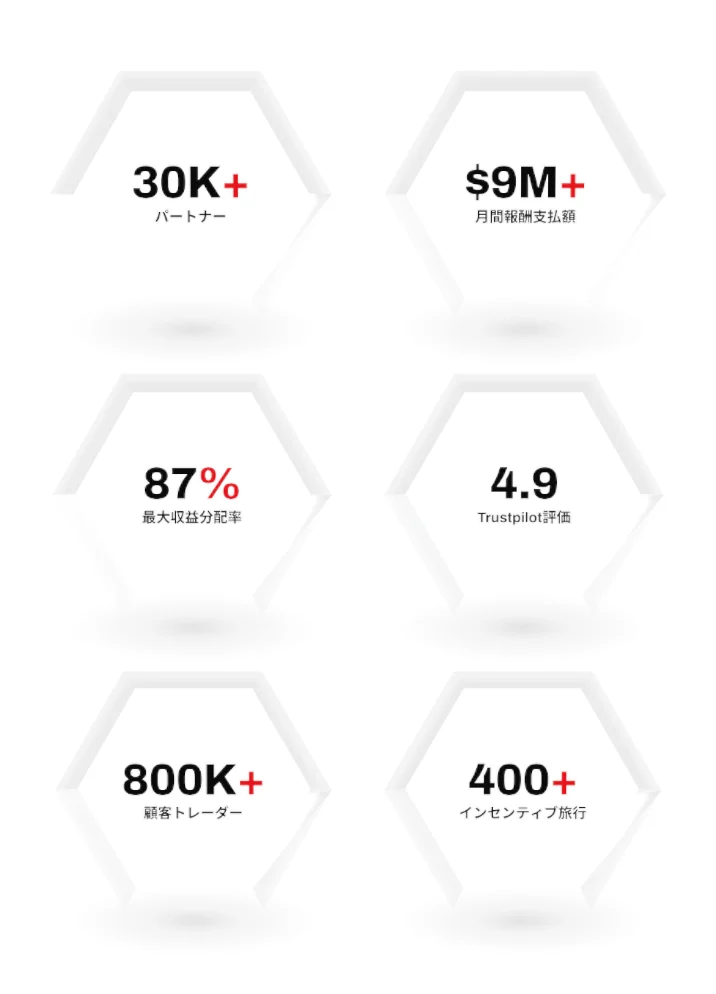
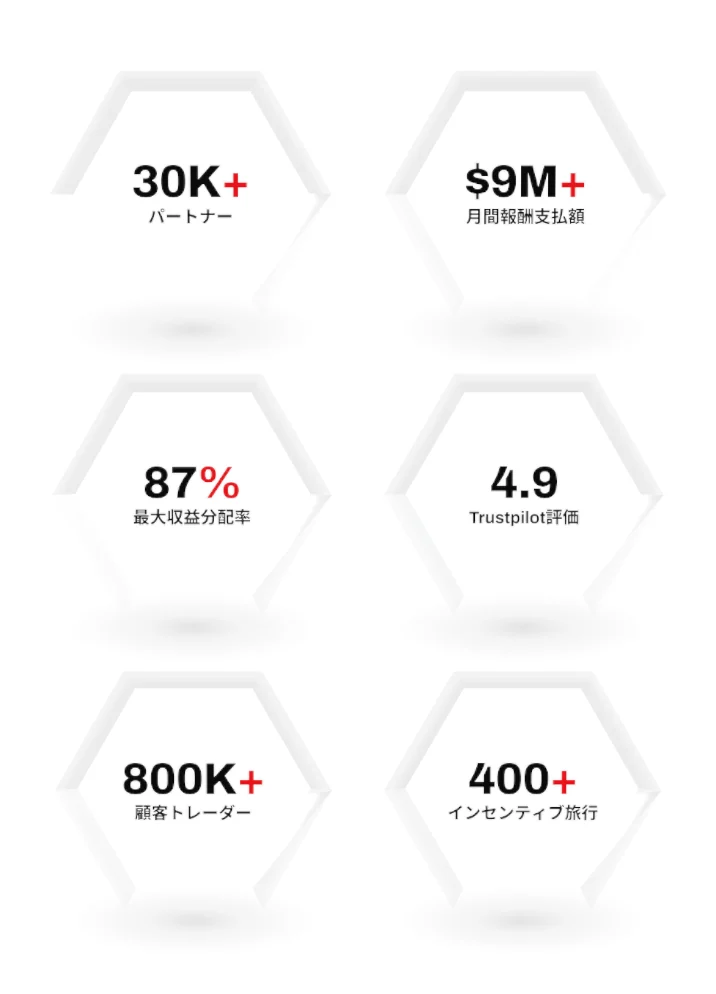
i18n: posters for all languages, larger captions for caseless scripts
Claude-Session: https://claude.ai/code/session_01JhZ5DB5vxLeXKkYquUUDqb

diff --git a/site/th/index.html b/site/th/index.html
@@ -1012,8 +1012,8 @@ h1, h2 { line-height: 1.2 !important; }
     <div data-crystals="" style="position: relative; max-width: 860px; margin: clamp(22px, 3vw, 36px) auto 0; border-top: 1px solid #ececee; padding-top: clamp(12px, 2vw, 24px);">
         <h2 style="margin: clamp(20px, 3vw, 36px) 0 0; text-align: center; font-size: clamp(32px, 4.6vw, 56px); line-height: 1.02; letter-spacing: -.045em; font-weight: 700; color: #0a0a0a; text-wrap: balance;">ตัวเลขของโปรแกรม</h2>
         <div data-crys-stage style="position: relative;">
-          <picture><source media="(max-width: 640px)" srcset="../assets/posters/crystals-th-mobile.webp?v=6713dd7af8"><img data-crys-poster fetchpriority="low" src="../assets/posters/crystals-th-desktop.webp?v=f128b8f04e" alt="พาร์ทเนอร์ 30K+ ราย, จ่ายให้พาร์ทเนอร์ $9M+ ต่อเดือน, ส่วนแบ่งรายได้สูงสุด 87%, คะแนน Trustpilot 4.9, ลูกค้าเทรดเดอร์ 800K+ ราย และทริปรางวัล 400+ ทริป" loading="lazy" decoding="async" style="position: absolute; inset: 0; width: 100%; height: 100%; object-fit: cover; display: block;"></picture>
-          <iframe data-embed data-src="../embeds/crystals.html?lang=th&v=9b5062772d" title="ตัวเลขของ TradeQuo" style="position: relative; display: block; width: 100%; aspect-ratio: 1.6 / 1; border: 0; background: #fff; pointer-events: none; opacity: 0; transition: opacity .5s ease;"></iframe>
+          <picture><source media="(max-width: 640px)" srcset="../assets/posters/crystals-th-mobile.webp?v=736a49b3b1"><img data-crys-poster fetchpriority="low" src="../assets/posters/crystals-th-desktop.webp?v=495eaa55f0" alt="พาร์ทเนอร์ 30K+ ราย, จ่ายให้พาร์ทเนอร์ $9M+ ต่อเดือน, ส่วนแบ่งรายได้สูงสุด 87%, คะแนน Trustpilot 4.9, ลูกค้าเทรดเดอร์ 800K+ ราย และทริปรางวัล 400+ ทริป" loading="lazy" decoding="async" style="position: absolute; inset: 0; width: 100%; height: 100%; object-fit: cover; display: block;"></picture>
+          <iframe data-embed data-src="../embeds/crystals.html?lang=th&v=f9d96fb1bc" title="ตัวเลขของ TradeQuo" style="position: relative; display: block; width: 100%; aspect-ratio: 1.6 / 1; border: 0; background: #fff; pointer-events: none; opacity: 0; transition: opacity .5s ease;"></iframe>
         </div>
       
       <div data-crys-cta="" style="display: flex; justify-content: center; margin-top: clamp(18px, 2.6vw, 32px);"><a class="tq-crys" href="#calculator" aria-label="ประเมินรายได้ของคุณ"><span class="tq-crys__rim"><span class="tq-crys__face"><span class="tq-crys__label">ประเมินรายได้ของคุณ</span></span></span><span class="tq-crys__gem" aria-hidden="true"><span class="tq-crys__shadow"></span><span class="tq-crys__body"><span class="tq-crys__edge"></span><span class="tq-crys__frost"></span><span class="tq-crys__chrome"></span><span class="tq-crys__f1"></span><span class="tq-crys__f2"></span><span class="tq-crys__f3"></span></span><span class="tq-crys__glyph"><span class="tq-crys__pct">%</span><span class="tq-crys__eq">=</span></span></span></a></div>

diff --git a/site/uk/index.html b/site/uk/index.html
@@ -1020,8 +1020,8 @@ a:focus-visible, button:focus-visible { outline: 2px solid #e7131b; outline-offs
     <div data-crystals="" style="position: relative; max-width: 860px; margin: clamp(22px, 3vw, 36px) auto 0; border-top: 1px solid #ececee; padding-top: clamp(12px, 2vw, 24px);">
         <h2 style="margin: clamp(20px, 3vw, 36px) 0 0; text-align: center; font-size: clamp(32px, 4.6vw, 56px); line-height: 1.02; letter-spacing: -.045em; font-weight: 700; color: #0a0a0a; text-wrap: balance;">Програма в цифрах</h2>
         <div data-crys-stage style="position: relative;">
-          <picture><source media="(max-width: 640px)" srcset="../assets/posters/crystals-uk-mobile.webp"><img data-crys-poster fetchpriority="low" src="../assets/posters/crystals-uk-desktop.webp" alt="30K+ партнерів, $9M+ виплат партнерам щомісяця, до 87% частки доходу, рейтинг 4.9 на Trustpilot, 800K+ клієнтів, що торгують, 400+ мотиваційних турів" loading="lazy" decoding="async" style="position: absolute; inset: 0; width: 100%; height: 100%; object-fit: cover; display: block;"></picture>
-          <iframe data-embed data-src="../embeds/crystals.html?lang=uk&v=9b5062772d" title="TradeQuo в цифрах" style="position: relative; display: block; width: 100%; aspect-ratio: 1.6 / 1; border: 0; background: #fff; pointer-events: none; opacity: 0; transition: opacity .5s ease;"></iframe>
+          <picture><source media="(max-width: 640px)" srcset="../assets/posters/crystals-uk-mobile.webp?v=30e2a8c2f1"><img data-crys-poster fetchpriority="low" src="../assets/posters/crystals-uk-desktop.webp?v=79006a5c0c" alt="30K+ партнерів, $9M+ виплат партнерам щомісяця, до 87% частки доходу, рейтинг 4.9 на Trustpilot, 800K+ клієнтів, що торгують, 400+ мотиваційних турів" loading="lazy" decoding="async" style="position: absolute; inset: 0; width: 100%; height: 100%; object-fit: cover; display: block;"></picture>
+          <iframe data-embed data-src="../embeds/crystals.html?lang=uk&v=f9d96fb1bc" title="TradeQuo в цифрах" style="position: relative; display: block; width: 100%; aspect-ratio: 1.6 / 1; border: 0; background: #fff; pointer-events: none; opacity: 0; transition: opacity .5s ease;"></iframe>
         </div>
       
       <div data-crys-cta="" style="display: flex; justify-content: center; margin-top: clamp(18px, 2.6vw, 32px);"><a class="tq-crys" href="#calculator" aria-label="Розрахуйте свій дохід"><span class="tq-crys__rim"><span class="tq-crys__face"><span class="tq-crys__label">Розрахуйте свій дохід</span></span></span><span class="tq-crys__gem" aria-hidden="true"><span class="tq-crys__shadow"></span><span class="tq-crys__body"><span class="tq-crys__edge"></span><span class="tq-crys__frost"></span><span class="tq-crys__chrome"></span><span class="tq-crys__f1"></span><span class="tq-crys__f2"></span><span class="tq-crys__f3"></span></span><span class="tq-crys__glyph"><span class="tq-crys__pct">%</span><span class="tq-crys__eq">=</span></span></span></a></div>

diff --git a/site/ar/index.html b/site/ar/index.html
@@ -1016,8 +1016,8 @@ h1, h2 { line-height: 1.2 !important; }
     <div data-crystals="" style="position: relative; max-width: 860px; margin: clamp(22px, 3vw, 36px) auto 0; border-top: 1px solid #ececee; padding-top: clamp(12px, 2vw, 24px);">
         <h2 style="margin: clamp(20px, 3vw, 36px) 0 0; text-align: center; font-size: clamp(32px, 4.6vw, 56px); line-height: 1.02; letter-spacing: -.045em; font-weight: 700; color: #0a0a0a; text-wrap: balance;">البرنامج بالأرقام</h2>
         <div data-crys-stage style="position: relative;">
-          <picture><source media="(max-width: 640px)" srcset="../assets/posters/crystals-ar-mobile.webp?v=5b6b1933a1"><img data-crys-poster fetchpriority="low" src="../assets/posters/crystals-ar-desktop.webp?v=ec8a145dfd" alt="30K+ شريك، $9M+ تُدفع للشركاء شهريًا، حصة من الإيرادات تصل إلى 87%، تقييم 4.9 على Trustpilot، 800K+ عميل متداول، 400+ رحلة تحفيزية" loading="lazy" decoding="async" style="position: absolute; inset: 0; width: 100%; height: 100%; object-fit: cover; display: block;"></picture>
-          <iframe data-embed data-src="../embeds/crystals.html?lang=ar&v=9b5062772d" title="TradeQuo بالأرقام" style="position: relative; display: block; width: 100%; aspect-ratio: 1.6 / 1; border: 0; background: #fff; pointer-events: none; opacity: 0; transition: opacity .5s ease;"></iframe>
+          <picture><source media="(max-width: 640px)" srcset="../assets/posters/crystals-ar-mobile.webp?v=92c709f622"><img data-crys-poster fetchpriority="low" src="../assets/posters/crystals-ar-desktop.webp?v=26a4d54c4e" alt="30K+ شريك، $9M+ تُدفع للشركاء شهريًا، حصة من الإيرادات تصل إلى 87%، تقييم 4.9 على Trustpilot، 800K+ عميل متداول، 400+ رحلة تحفيزية" loading="lazy" decoding="async" style="position: absolute; inset: 0; width: 100%; height: 100%; object-fit: cover; display: block;"></picture>
+          <iframe data-embed data-src="../embeds/crystals.html?lang=ar&v=f9d96fb1bc" title="TradeQuo بالأرقام" style="position: relative; display: block; width: 100%; aspect-ratio: 1.6 / 1; border: 0; background: #fff; pointer-events: none; opacity: 0; transition: opacity .5s ease;"></iframe>
         </div>
       
       <div data-crys-cta="" style="display: flex; justify-content: center; margin-top: clamp(18px, 2.6vw, 32px);"><a class="tq-crys" href="#calculator" aria-label="احسب أرباحك"><span class="tq-crys__rim"><span class="tq-crys__face"><span class="tq-crys__label">احسب أرباحك</span></span></span><span class="tq-crys__gem" aria-hidden="true"><span class="tq-crys__shadow"></span><span class="tq-crys__body"><span class="tq-crys__edge"></span><span class="tq-crys__frost"></span><span class="tq-crys__chrome"></span><span class="tq-crys__f1"></span><span class="tq-crys__f2"></span><span class="tq-crys__f3"></span></span><span class="tq-crys__glyph"><span class="tq-crys__pct">%</span><span class="tq-crys__eq">=</span></span></span></a></div>

diff --git a/site/pl/index.html b/site/pl/index.html
@@ -1004,8 +1004,8 @@ a:focus-visible, button:focus-visible { outline: 2px solid #e7131b; outline-offs
     <div data-crystals="" style="position: relative; max-width: 860px; margin: clamp(22px, 3vw, 36px) auto 0; border-top: 1px solid #ececee; padding-top: clamp(12px, 2vw, 24px);">
         <h2 style="margin: clamp(20px, 3vw, 36px) 0 0; text-align: center; font-size: clamp(32px, 4.6vw, 56px); line-height: 1.02; letter-spacing: -.045em; font-weight: 700; color: #0a0a0a; text-wrap: balance;">Program w liczbach</h2>
         <div data-crys-stage style="position: relative;">
-          <picture><source media="(max-width: 640px)" srcset="../assets/posters/crystals-pl-mobile.webp"><img data-crys-poster fetchpriority="low" src="../assets/posters/crystals-pl-desktop.webp" alt="30K+ partnerów, $9M+ wypłacanych partnerom co miesiąc, do 87% udziału w przychodach (revenue share), ocena 4.9 na Trustpilot, 800K+ handlujących klientów, 400+ wyjazdów motywacyjnych" loading="lazy" decoding="async" style="position: absolute; inset: 0; width: 100%; height: 100%; object-fit: cover; display: block;"></picture>
-          <iframe data-embed data-src="../embeds/crystals.html?lang=pl&v=9b5062772d" title="TradeQuo w liczbach" style="position: relative; display: block; width: 100%; aspect-ratio: 1.6 / 1; border: 0; background: #fff; pointer-events: none; opacity: 0; transition: opacity .5s ease;"></iframe>
+          <picture><source media="(max-width: 640px)" srcset="../assets/posters/crystals-pl-mobile.webp?v=a6cd1261d0"><img data-crys-poster fetchpriority="low" src="../assets/posters/crystals-pl-desktop.webp?v=789bb502c4" alt="30K+ partnerów, $9M+ wypłacanych partnerom co miesiąc, do 87% udziału w przychodach (revenue share), ocena 4.9 na Trustpilot, 800K+ handlujących klientów, 400+ wyjazdów motywacyjnych" loading="lazy" decoding="async" style="position: absolute; inset: 0; width: 100%; height: 100%; object-fit: cover; display: block;"></picture>
+          <iframe data-embed data-src="../embeds/crystals.html?lang=pl&v=f9d96fb1bc" title="TradeQuo w liczbach" style="position: relative; display: block; width: 100%; aspect-ratio: 1.6 / 1; border: 0; background: #fff; pointer-events: none; opacity: 0; transition: opacity .5s ease;"></iframe>
         </div>
       
       <div data-crys-cta="" style="display: flex; justify-content: center; margin-top: clamp(18px, 2.6vw, 32px);"><a class="tq-crys" href="#calculator" aria-label="Oszacuj swoje zarobki"><span class="tq-crys__rim"><span class="tq-crys__face"><span class="tq-crys__label">Oszacuj swoje zarobki</span></span></span><span class="tq-crys__gem" aria-hidden="true"><span class="tq-crys__shadow"></span><span class="tq-crys__body"><span class="tq-crys__edge"></span><span class="tq-crys__frost"></span><span class="tq-crys__chrome"></span><span class="tq-crys__f1"></span><span class="tq-crys__f2"></span><span class="tq-crys__f3"></span></span><span class="tq-crys__glyph"><span class="tq-crys__pct">%</span><span class="tq-crys__eq">=</span></span></span></a></div>

diff --git a/site/ja/index.html b/site/ja/index.html
@@ -1010,8 +1010,8 @@ html:lang(ko) * { word-break: keep-all; }
     <div data-crystals="" style="position: relative; max-width: 860px; margin: clamp(22px, 3vw, 36px) auto 0; border-top: 1px solid #ececee; padding-top: clamp(12px, 2vw, 24px);">
         <h2 style="margin: clamp(20px, 3vw, 36px) 0 0; text-align: center; font-size: clamp(32px, 4.6vw, 56px); line-height: 1.02; letter-spacing: -.045em; font-weight: 700; color: #0a0a0a; text-wrap: balance;">数字で見るプログラム</h2>
         <div data-crys-stage style="position: relative;">
-          <picture><source media="(max-width: 640px)" srcset="../assets/posters/crystals-ja-mobile.webp?v=8d4724fb0a"><img data-crys-poster fetchpriority="low" src="../assets/posters/crystals-ja-desktop.webp?v=e89979ad43" alt="パートナー数30K+、パートナーへの月間支払額$9M+、最大87%の収益分配、Trustpilot評価4.9、顧客トレーダー800K+、インセンティブ旅行400+" loading="lazy" decoding="async" style="position: absolute; inset: 0; width: 100%; height: 100%; object-fit: cover; display: block;"></picture>
-          <iframe data-embed data-src="../embeds/crystals.html?lang=ja&v=9b5062772d" title="数字で見るTradeQuo" style="position: relative; display: block; width: 100%; aspect-ratio: 1.6 / 1; border: 0; background: #fff; pointer-events: none; opacity: 0; transition: opacity .5s ease;"></iframe>
+          <picture><source media="(max-width: 640px)" srcset="../assets/posters/crystals-ja-mobile.webp?v=e02450ca6f"><img data-crys-poster fetchpriority="low" src="../assets/posters/crystals-ja-desktop.webp?v=02a2a02df8" alt="パートナー数30K+、パートナーへの月間支払額$9M+、最大87%の収益分配、Trustpilot評価4.9、顧客トレーダー800K+、インセンティブ旅行400+" loading="lazy" decoding="async" style="position: absolute; inset: 0; width: 100%; height: 100%; object-fit: cover; display: block;"></picture>
+          <iframe data-embed data-src="../embeds/crystals.html?lang=ja&v=f9d96fb1bc" title="数字で見るTradeQuo" style="position: relative; display: block; width: 100%; aspect-ratio: 1.6 / 1; border: 0; background: #fff; pointer-events: none; opacity: 0; transition: opacity .5s ease;"></iframe>
         </div>
       
       <div data-crys-cta="" style="display: flex; justify-content: center; margin-top: clamp(18px, 2.6vw, 32px);"><a class="tq-crys" href="#calculator" aria-label="報酬を試算する"><span class="tq-crys__rim"><span class="tq-crys__face"><span class="tq-crys__label">報酬を試算する</span></span></span><span class="tq-crys__gem" aria-hidden="true"><span class="tq-crys__shadow"></span><span class="tq-crys__body"><span class="tq-crys__edge"></span><span class="tq-crys__frost"></span><span class="tq-crys__chrome"></span><span class="tq-crys__f1"></span><span class="tq-crys__f2"></span><span class="tq-crys__f3"></span></span><span class="tq-crys__glyph"><span class="tq-crys__pct">%</span><span class="tq-crys__eq">=</span></span></span></a></div>

diff --git a/site/fr/index.html b/site/fr/index.html
@@ -1004,8 +1004,8 @@ a:focus-visible, button:focus-visible { outline: 2px solid #e7131b; outline-offs
     <div data-crystals="" style="position: relative; max-width: 860px; margin: clamp(22px, 3vw, 36px) auto 0; border-top: 1px solid #ececee; padding-top: clamp(12px, 2vw, 24px);">
         <h2 style="margin: clamp(20px, 3vw, 36px) 0 0; text-align: center; font-size: clamp(32px, 4.6vw, 56px); line-height: 1.02; letter-spacing: -.045em; font-weight: 700; color: #0a0a0a; text-wrap: balance;">Le programme en chiffres</h2>
         <div data-crys-stage style="position: relative;">
-          <picture><source media="(max-width: 640px)" srcset="../assets/posters/crystals-fr-mobile.webp"><img data-crys-poster fetchpriority="low" src="../assets/posters/crystals-fr-desktop.webp" alt="30K+ partenaires, $9M+ versés aux partenaires chaque mois, jusqu’à 87% de partage de revenus, note Trustpilot de 4.9, 800K+ traders clients, 400+ voyages incentive" loading="lazy" decoding="async" style="position: absolute; inset: 0; width: 100%; height: 100%; object-fit: cover; display: block;"></picture>
-          <iframe data-embed data-src="../embeds/crystals.html?lang=fr&v=9b5062772d" title="TradeQuo en chiffres" style="position: relative; display: block; width: 100%; aspect-ratio: 1.6 / 1; border: 0; background: #fff; pointer-events: none; opacity: 0; transition: opacity .5s ease;"></iframe>
+          <picture><source media="(max-width: 640px)" srcset="../assets/posters/crystals-fr-mobile.webp?v=27ea14558b"><img data-crys-poster fetchpriority="low" src="../assets/posters/crystals-fr-desktop.webp?v=38ff91b300" alt="30K+ partenaires, $9M+ versés aux partenaires chaque mois, jusqu’à 87% de partage de revenus, note Trustpilot de 4.9, 800K+ traders clients, 400+ voyages incentive" loading="lazy" decoding="async" style="position: absolute; inset: 0; width: 100%; height: 100%; object-fit: cover; display: block;"></picture>
+          <iframe data-embed data-src="../embeds/crystals.html?lang=fr&v=f9d96fb1bc" title="TradeQuo en chiffres" style="position: relative; display: block; width: 100%; aspect-ratio: 1.6 / 1; border: 0; background: #fff; pointer-events: none; opacity: 0; transition: opacity .5s ease;"></iframe>
         </div>
       
       <div data-crys-cta="" style="display: flex; justify-content: center; margin-top: clamp(18px, 2.6vw, 32px);"><a class="tq-crys" href="#calculator" aria-label="Estimez vos gains"><span class="tq-crys__rim"><span class="tq-crys__face"><span class="tq-crys__label">Estimez vos gains</span></span></span><span class="tq-crys__gem" aria-hidden="true"><span class="tq-crys__shadow"></span><span class="tq-crys__body"><span class="tq-crys__edge"></span><span class="tq-crys__frost"></span><span class="tq-crys__chrome"></span><span class="tq-crys__f1"></span><span class="tq-crys__f2"></span><span class="tq-crys__f3"></span></span><span class="tq-crys__glyph"><span class="tq-crys__pct">%</span><span class="tq-crys__eq">=</span></span></span></a></div>

diff --git a/site/ro/index.html b/site/ro/index.html
@@ -1004,8 +1004,8 @@ a:focus-visible, button:focus-visible { outline: 2px solid #e7131b; outline-offs
     <div data-crystals="" style="position: relative; max-width: 860px; margin: clamp(22px, 3vw, 36px) auto 0; border-top: 1px solid #ececee; padding-top: clamp(12px, 2vw, 24px);">
         <h2 style="margin: clamp(20px, 3vw, 36px) 0 0; text-align: center; font-size: clamp(32px, 4.6vw, 56px); line-height: 1.02; letter-spacing: -.045em; font-weight: 700; color: #0a0a0a; text-wrap: balance;">Programul în cifre</h2>
         <div data-crys-stage style="position: relative;">
-          <picture><source media="(max-width: 640px)" srcset="../assets/posters/crystals-ro-mobile.webp"><img data-crys-poster fetchpriority="low" src="../assets/posters/crystals-ro-desktop.webp" alt="30K+ parteneri, $9M+ plătiți lunar partenerilor, cotă din venituri de până la 87%, rating 4.9 pe Trustpilot, 800K+ traderi clienți, 400+ călătorii-premiu" loading="lazy" decoding="async" style="position: absolute; inset: 0; width: 100%; height: 100%; object-fit: cover; display: block;"></picture>
-          <iframe data-embed data-src="../embeds/crystals.html?lang=ro&v=9b5062772d" title="TradeQuo în cifre" style="position: relative; display: block; width: 100%; aspect-ratio: 1.6 / 1; border: 0; background: #fff; pointer-events: none; opacity: 0; transition: opacity .5s ease;"></iframe>
+          <picture><source media="(max-width: 640px)" srcset="../assets/posters/crystals-ro-mobile.webp?v=a185d2ceb1"><img data-crys-poster fetchpriority="low" src="../assets/posters/crystals-ro-desktop.webp?v=5805fbe068" alt="30K+ parteneri, $9M+ plătiți lunar partenerilor, cotă din venituri de până la 87%, rating 4.9 pe Trustpilot, 800K+ traderi clienți, 400+ călătorii-premiu" loading="lazy" decoding="async" style="position: absolute; inset: 0; width: 100%; height: 100%; object-fit: cover; display: block;"></picture>
+          <iframe data-embed data-src="../embeds/crystals.html?lang=ro&v=f9d96fb1bc" title="TradeQuo în cifre" style="position: relative; display: block; width: 100%; aspect-ratio: 1.6 / 1; border: 0; background: #fff; pointer-events: none; opacity: 0; transition: opacity .5s ease;"></iframe>
         </div>
       
       <div data-crys-cta="" style="display: flex; justify-content: center; margin-top: clamp(18px, 2.6vw, 32px);"><a class="tq-crys" href="#calculator" aria-label="Estimează câștigurile"><span class="tq-crys__rim"><span class="tq-crys__face"><span class="tq-crys__label">Estimează câștigurile</span></span></span><span class="tq-crys__gem" aria-hidden="true"><span class="tq-crys__shadow"></span><span class="tq-crys__body"><span class="tq-crys__edge"></span><span class="tq-crys__frost"></span><span class="tq-crys__chrome"></span><span class="tq-crys__f1"></span><span class="tq-crys__f2"></span><span class="tq-crys__f3"></span></span><span class="tq-crys__glyph"><span class="tq-crys__pct">%</span><span class="tq-crys__eq">=</span></span></span></a></div>

diff --git a/site/ko/index.html b/site/ko/index.html
@@ -1010,8 +1010,8 @@ html:lang(ko) * { word-break: keep-all; }
     <div data-crystals="" style="position: relative; max-width: 860px; margin: clamp(22px, 3vw, 36px) auto 0; border-top: 1px solid #ececee; padding-top: clamp(12px, 2vw, 24px);">
         <h2 style="margin: clamp(20px, 3vw, 36px) 0 0; text-align: center; font-size: clamp(32px, 4.6vw, 56px); line-height: 1.02; letter-spacing: -.045em; font-weight: 700; color: #0a0a0a; text-wrap: balance;">숫자로 보는 프로그램</h2>
         <div data-crys-stage style="position: relative;">
-          <picture><source media="(max-width: 640px)" srcset="../assets/posters/crystals-ko-mobile.webp?v=7bb87ed0e8"><img data-crys-poster fetchpriority="low" src="../assets/posters/crystals-ko-desktop.webp?v=3b593cf9f7" alt="파트너 30K+, 매월 파트너 지급액 $9M+, 최대 87% 수익 배분, Trustpilot 평점 4.9, 고객 트레이더 800K+, 인센티브 여행 400+" loading="lazy" decoding="async" style="position: absolute; inset: 0; width: 100%; height: 100%; object-fit: cover; display: block;"></picture>
-          <iframe data-embed data-src="../embeds/crystals.html?lang=ko&v=9b5062772d" title="숫자로 보는 TradeQuo" style="position: relative; display: block; width: 100%; aspect-ratio: 1.6 / 1; border: 0; background: #fff; pointer-events: none; opacity: 0; transition: opacity .5s ease;"></iframe>
+          <picture><source media="(max-width: 640px)" srcset="../assets/posters/crystals-ko-mobile.webp?v=ab0aec5041"><img data-crys-poster fetchpriority="low" src="../assets/posters/crystals-ko-desktop.webp?v=8e7fae61ac" alt="파트너 30K+, 매월 파트너 지급액 $9M+, 최대 87% 수익 배분, Trustpilot 평점 4.9, 고객 트레이더 800K+, 인센티브 여행 400+" loading="lazy" decoding="async" style="position: absolute; inset: 0; width: 100%; height: 100%; object-fit: cover; display: block;"></picture>
+          <iframe data-embed data-src="../embeds/crystals.html?lang=ko&v=f9d96fb1bc" title="숫자로 보는 TradeQuo" style="position: relative; display: block; width: 100%; aspect-ratio: 1.6 / 1; border: 0; background: #fff; pointer-events: none; opacity: 0; transition: opacity .5s ease;"></iframe>
         </div>
       
       <div data-crys-cta="" style="display: flex; justify-content: center; margin-top: clamp(18px, 2.6vw, 32px);"><a class="tq-crys" href="#calculator" aria-label="예상 수익 계산하기"><span class="tq-crys__rim"><span class="tq-crys__face"><span class="tq-crys__label">예상 수익 계산하기</span></span></span><span class="tq-crys__gem" aria-hidden="true"><span class="tq-crys__shadow"></span><span class="tq-crys__body"><span class="tq-crys__edge"></span><span class="tq-crys__frost"></span><span class="tq-crys__chrome"></span><span class="tq-crys__f1"></span><span class="tq-crys__f2"></span><span class="tq-crys__f3"></span></span><span class="tq-crys__glyph"><span class="tq-crys__pct">%</span><span class="tq-crys__eq">=</span></span></span></a></div>

diff --git a/site/es/index.html b/site/es/index.html
@@ -1004,8 +1004,8 @@ a:focus-visible, button:focus-visible { outline: 2px solid #e7131b; outline-offs
     <div data-crystals="" style="position: relative; max-width: 860px; margin: clamp(22px, 3vw, 36px) auto 0; border-top: 1px solid #ececee; padding-top: clamp(12px, 2vw, 24px);">
         <h2 style="margin: clamp(20px, 3vw, 36px) 0 0; text-align: center; font-size: clamp(32px, 4.6vw, 56px); line-height: 1.02; letter-spacing: -.045em; font-weight: 700; color: #0a0a0a; text-wrap: balance;">El programa en cifras</h2>
         <div data-crys-stage style="position: relative;">
-          <picture><source media="(max-width: 640px)" srcset="../assets/posters/crystals-es-mobile.webp"><img data-crys-poster fetchpriority="low" src="../assets/posters/crystals-es-desktop.webp" alt="30K+ socios, $9M+ pagados a socios cada mes, hasta el 87% de revenue share, puntuación de 4.9 en Trustpilot, 800K+ traders clientes, 400+ viajes de incentivo" loading="lazy" decoding="async" style="position: absolute; inset: 0; width: 100%; height: 100%; object-fit: cover; display: block;"></picture>
-          <iframe data-embed data-src="../embeds/crystals.html?lang=es&v=9b5062772d" title="TradeQuo en cifras" style="position: relative; display: block; width: 100%; aspect-ratio: 1.6 / 1; border: 0; background: #fff; pointer-events: none; opacity: 0; transition: opacity .5s ease;"></iframe>
+          <picture><source media="(max-width: 640px)" srcset="../assets/posters/crystals-es-mobile.webp?v=eefd33b863"><img data-crys-poster fetchpriority="low" src="../assets/posters/crystals-es-desktop.webp?v=73ff593845" alt="30K+ socios, $9M+ pagados a socios cada mes, hasta el 87% de revenue share, puntuación de 4.9 en Trustpilot, 800K+ traders clientes, 400+ viajes de incentivo" loading="lazy" decoding="async" style="position: absolute; inset: 0; width: 100%; height: 100%; object-fit: cover; display: block;"></picture>
+          <iframe data-embed data-src="../embeds/crystals.html?lang=es&v=f9d96fb1bc" title="TradeQuo en cifras" style="position: relative; display: block; width: 100%; aspect-ratio: 1.6 / 1; border: 0; background: #fff; pointer-events: none; opacity: 0; transition: opacity .5s ease;"></iframe>
         </div>
       
       <div data-crys-cta="" style="display: flex; justify-content: center; margin-top: clamp(18px, 2.6vw, 32px);"><a class="tq-crys" href="#calculator" aria-label="Calcula tus ganancias"><span class="tq-crys__rim"><span class="tq-crys__face"><span class="tq-crys__label">Calcula tus ganancias</span></span></span><span class="tq-crys__gem" aria-hidden="true"><span class="tq-crys__shadow"></span><span class="tq-crys__body"><span class="tq-crys__edge"></span><span class="tq-crys__frost"></span><span class="tq-crys__chrome"></span><span class="tq-crys__f1"></span><span class="tq-crys__f2"></span><span class="tq-crys__f3"></span></span><span class="tq-crys__glyph"><span class="tq-crys__pct">%</span><span class="tq-crys__eq">=</span></span></span></a></div>

diff --git a/site/tr/index.html b/site/tr/index.html
@@ -1004,8 +1004,8 @@ a:focus-visible, button:focus-visible { outline: 2px solid #e7131b; outline-offs
     <div data-crystals="" style="position: relative; max-width: 860px; margin: clamp(22px, 3vw, 36px) auto 0; border-top: 1px solid #ececee; padding-top: clamp(12px, 2vw, 24px);">
         <h2 style="margin: clamp(20px, 3vw, 36px) 0 0; text-align: center; font-size: clamp(32px, 4.6vw, 56px); line-height: 1.02; letter-spacing: -.045em; font-weight: 700; color: #0a0a0a; text-wrap: balance;">Rakamlarla programımız</h2>
         <div data-crys-stage style="position: relative;">
-          <picture><source media="(max-width: 640px)" srcset="../assets/posters/crystals-tr-mobile.webp"><img data-crys-poster fetchpriority="low" src="../assets/posters/crystals-tr-desktop.webp" alt="30K+ partner, partnerlere her ay ödenen $9M+, en fazla %87 gelir payı, Trustpilot’ta 4.9 puan, 800K+ müşteri yatırımcı, 400+ ödül seyahati" loading="lazy" decoding="async" style="position: absolute; inset: 0; width: 100%; height: 100%; object-fit: cover; display: block;"></picture>
-          <iframe data-embed data-src="../embeds/crystals.html?lang=tr&v=9b5062772d" title="Rakamlarla TradeQuo" style="position: relative; display: block; width: 100%; aspect-ratio: 1.6 / 1; border: 0; background: #fff; pointer-events: none; opacity: 0; transition: opacity .5s ease;"></iframe>
+          <picture><source media="(max-width: 640px)" srcset="../assets/posters/crystals-tr-mobile.webp?v=7992f370ff"><img data-crys-poster fetchpriority="low" src="../assets/posters/crystals-tr-desktop.webp?v=7506f2ec4c" alt="30K+ partner, partnerlere her ay ödenen $9M+, en fazla %87 gelir payı, Trustpilot’ta 4.9 puan, 800K+ müşteri yatırımcı, 400+ ödül seyahati" loading="lazy" decoding="async" style="position: absolute; inset: 0; width: 100%; height: 100%; object-fit: cover; display: block;"></picture>
+          <iframe data-embed data-src="../embeds/crystals.html?lang=tr&v=f9d96fb1bc" title="Rakamlarla TradeQuo" style="position: relative; display: block; width: 100%; aspect-ratio: 1.6 / 1; border: 0; background: #fff; pointer-events: none; opacity: 0; transition: opacity .5s ease;"></iframe>
         </div>
       
       <div data-crys-cta="" style="display: flex; justify-content: center; margin-top: clamp(18px, 2.6vw, 32px);"><a class="tq-crys" href="#calculator" aria-label="Kazancınızı hesaplayın"><span class="tq-crys__rim"><span class="tq-crys__face"><span class="tq-crys__label">Kazancınızı hesaplayın</span></span></span><span class="tq-crys__gem" aria-hidden="true"><span class="tq-crys__shadow"></span><span class="tq-crys__body"><span class="tq-crys__edge"></span><span class="tq-crys__frost"></span><span class="tq-crys__chrome"></span><span class="tq-crys__f1"></span><span class="tq-crys__f2"></span><span class="tq-crys__f3"></span></span><span class="tq-crys__glyph"><span class="tq-crys__pct">%</span><span class="tq-crys__eq">=</span></span></span></a></div>

diff --git a/site/it/index.html b/site/it/index.html
@@ -1004,8 +1004,8 @@ a:focus-visible, button:focus-visible { outline: 2px solid #e7131b; outline-offs
     <div data-crystals="" style="position: relative; max-width: 860px; margin: clamp(22px, 3vw, 36px) auto 0; border-top: 1px solid #ececee; padding-top: clamp(12px, 2vw, 24px);">
         <h2 style="margin: clamp(20px, 3vw, 36px) 0 0; text-align: center; font-size: clamp(32px, 4.6vw, 56px); line-height: 1.02; letter-spacing: -.045em; font-weight: 700; color: #0a0a0a; text-wrap: balance;">Il programma in numeri</h2>
         <div data-crys-stage style="position: relative;">
-          <picture><source media="(max-width: 640px)" srcset="../assets/posters/crystals-it-mobile.webp"><img data-crys-poster fetchpriority="low" src="../assets/posters/crystals-it-desktop.webp" alt="30K+ partner, $9M+ pagati ai partner ogni mese, fino all’87% di revenue share, valutazione 4.9 su Trustpilot, 800K+ trader clienti, 400+ viaggi incentive" loading="lazy" decoding="async" style="position: absolute; inset: 0; width: 100%; height: 100%; object-fit: cover; display: block;"></picture>
-          <iframe data-embed data-src="../embeds/crystals.html?lang=it&v=9b5062772d" title="TradeQuo in numeri" style="position: relative; display: block; width: 100%; aspect-ratio: 1.6 / 1; border: 0; background: #fff; pointer-events: none; opacity: 0; transition: opacity .5s ease;"></iframe>
+          <picture><source media="(max-width: 640px)" srcset="../assets/posters/crystals-it-mobile.webp?v=9f8d0a1ba2"><img data-crys-poster fetchpriority="low" src="../assets/posters/crystals-it-desktop.webp?v=993bceaf40" alt="30K+ partner, $9M+ pagati ai partner ogni mese, fino all’87% di revenue share, valutazione 4.9 su Trustpilot, 800K+ trader clienti, 400+ viaggi incentive" loading="lazy" decoding="async" style="position: absolute; inset: 0; width: 100%; height: 100%; object-fit: cover; display: block;"></picture>
+          <iframe data-embed data-src="../embeds/crystals.html?lang=it&v=f9d96fb1bc" title="TradeQuo in numeri" style="position: relative; display: block; width: 100%; aspect-ratio: 1.6 / 1; border: 0; background: #fff; pointer-events: none; opacity: 0; transition: opacity .5s ease;"></iframe>
         </div>
       
       <div data-crys-cta="" style="display: flex; justify-content: center; margin-top: clamp(18px, 2.6vw, 32px);"><a class="tq-crys" href="#calculator" aria-label="Stima i tuoi guadagni"><span class="tq-crys__rim"><span class="tq-crys__face"><span class="tq-crys__label">Stima i tuoi guadagni</span></span></span><span class="tq-crys__gem" aria-hidden="true"><span class="tq-crys__shadow"></span><span class="tq-crys__body"><span class="tq-crys__edge"></span><span class="tq-crys__frost"></span><span class="tq-crys__chrome"></span><span class="tq-crys__f1"></span><span class="tq-crys__f2"></span><span class="tq-crys__f3"></span></span><span class="tq-crys__glyph"><span class="tq-crys__pct">%</span><span class="tq-crys__eq">=</span></span></span></a></div>

diff --git a/site/pt/index.html b/site/pt/index.html
@@ -1004,8 +1004,8 @@ a:focus-visible, button:focus-visible { outline: 2px solid #e7131b; outline-offs
     <div data-crystals="" style="position: relative; max-width: 860px; margin: clamp(22px, 3vw, 36px) auto 0; border-top: 1px solid #ececee; padding-top: clamp(12px, 2vw, 24px);">
         <h2 style="margin: clamp(20px, 3vw, 36px) 0 0; text-align: center; font-size: clamp(32px, 4.6vw, 56px); line-height: 1.02; letter-spacing: -.045em; font-weight: 700; color: #0a0a0a; text-wrap: balance;">O programa em números</h2>
         <div data-crys-stage style="position: relative;">
-          <picture><source media="(max-width: 640px)" srcset="../assets/posters/crystals-pt-mobile.webp"><img data-crys-poster fetchpriority="low" src="../assets/posters/crystals-pt-desktop.webp" alt="30K+ parceiros, $9M+ pagos a parceiros por mês, até 87% de revenue share, nota 4.9 no Trustpilot, 800K+ traders clientes, 400+ viagens de incentivo" loading="lazy" decoding="async" style="position: absolute; inset: 0; width: 100%; height: 100%; object-fit: cover; display: block;"></picture>
-          <iframe data-embed data-src="../embeds/crystals.html?lang=pt&v=9b5062772d" title="A TradeQuo em números" style="position: relative; display: block; width: 100%; aspect-ratio: 1.6 / 1; border: 0; background: #fff; pointer-events: none; opacity: 0; transition: opacity .5s ease;"></iframe>
+          <picture><source media="(max-width: 640px)" srcset="../assets/posters/crystals-pt-mobile.webp?v=a4bba9277b"><img data-crys-poster fetchpriority="low" src="../assets/posters/crystals-pt-desktop.webp?v=01f4182b49" alt="30K+ parceiros, $9M+ pagos a parceiros por mês, até 87% de revenue share, nota 4.9 no Trustpilot, 800K+ traders clientes, 400+ viagens de incentivo" loading="lazy" decoding="async" style="position: absolute; inset: 0; width: 100%; height: 100%; object-fit: cover; display: block;"></picture>
+          <iframe data-embed data-src="../embeds/crystals.html?lang=pt&v=f9d96fb1bc" title="A TradeQuo em números" style="position: relative; display: block; width: 100%; aspect-ratio: 1.6 / 1; border: 0; background: #fff; pointer-events: none; opacity: 0; transition: opacity .5s ease;"></iframe>
         </div>
       
       <div data-crys-cta="" style="display: flex; justify-content: center; margin-top: clamp(18px, 2.6vw, 32px);"><a class="tq-crys" href="#calculator" aria-label="Calcule seus ganhos"><span class="tq-crys__rim"><span class="tq-crys__face"><span class="tq-crys__label">Calcule seus ganhos</span></span></span><span class="tq-crys__gem" aria-hidden="true"><span class="tq-crys__shadow"></span><span class="tq-crys__body"><span class="tq-crys__edge"></span><span class="tq-crys__frost"></span><span class="tq-crys__chrome"></span><span class="tq-crys__f1"></span><span class="tq-crys__f2"></span><span class="tq-crys__f3"></span></span><span class="tq-crys__glyph"><span class="tq-crys__pct">%</span><span class="tq-crys__eq">=</span></span></span></a></div>
